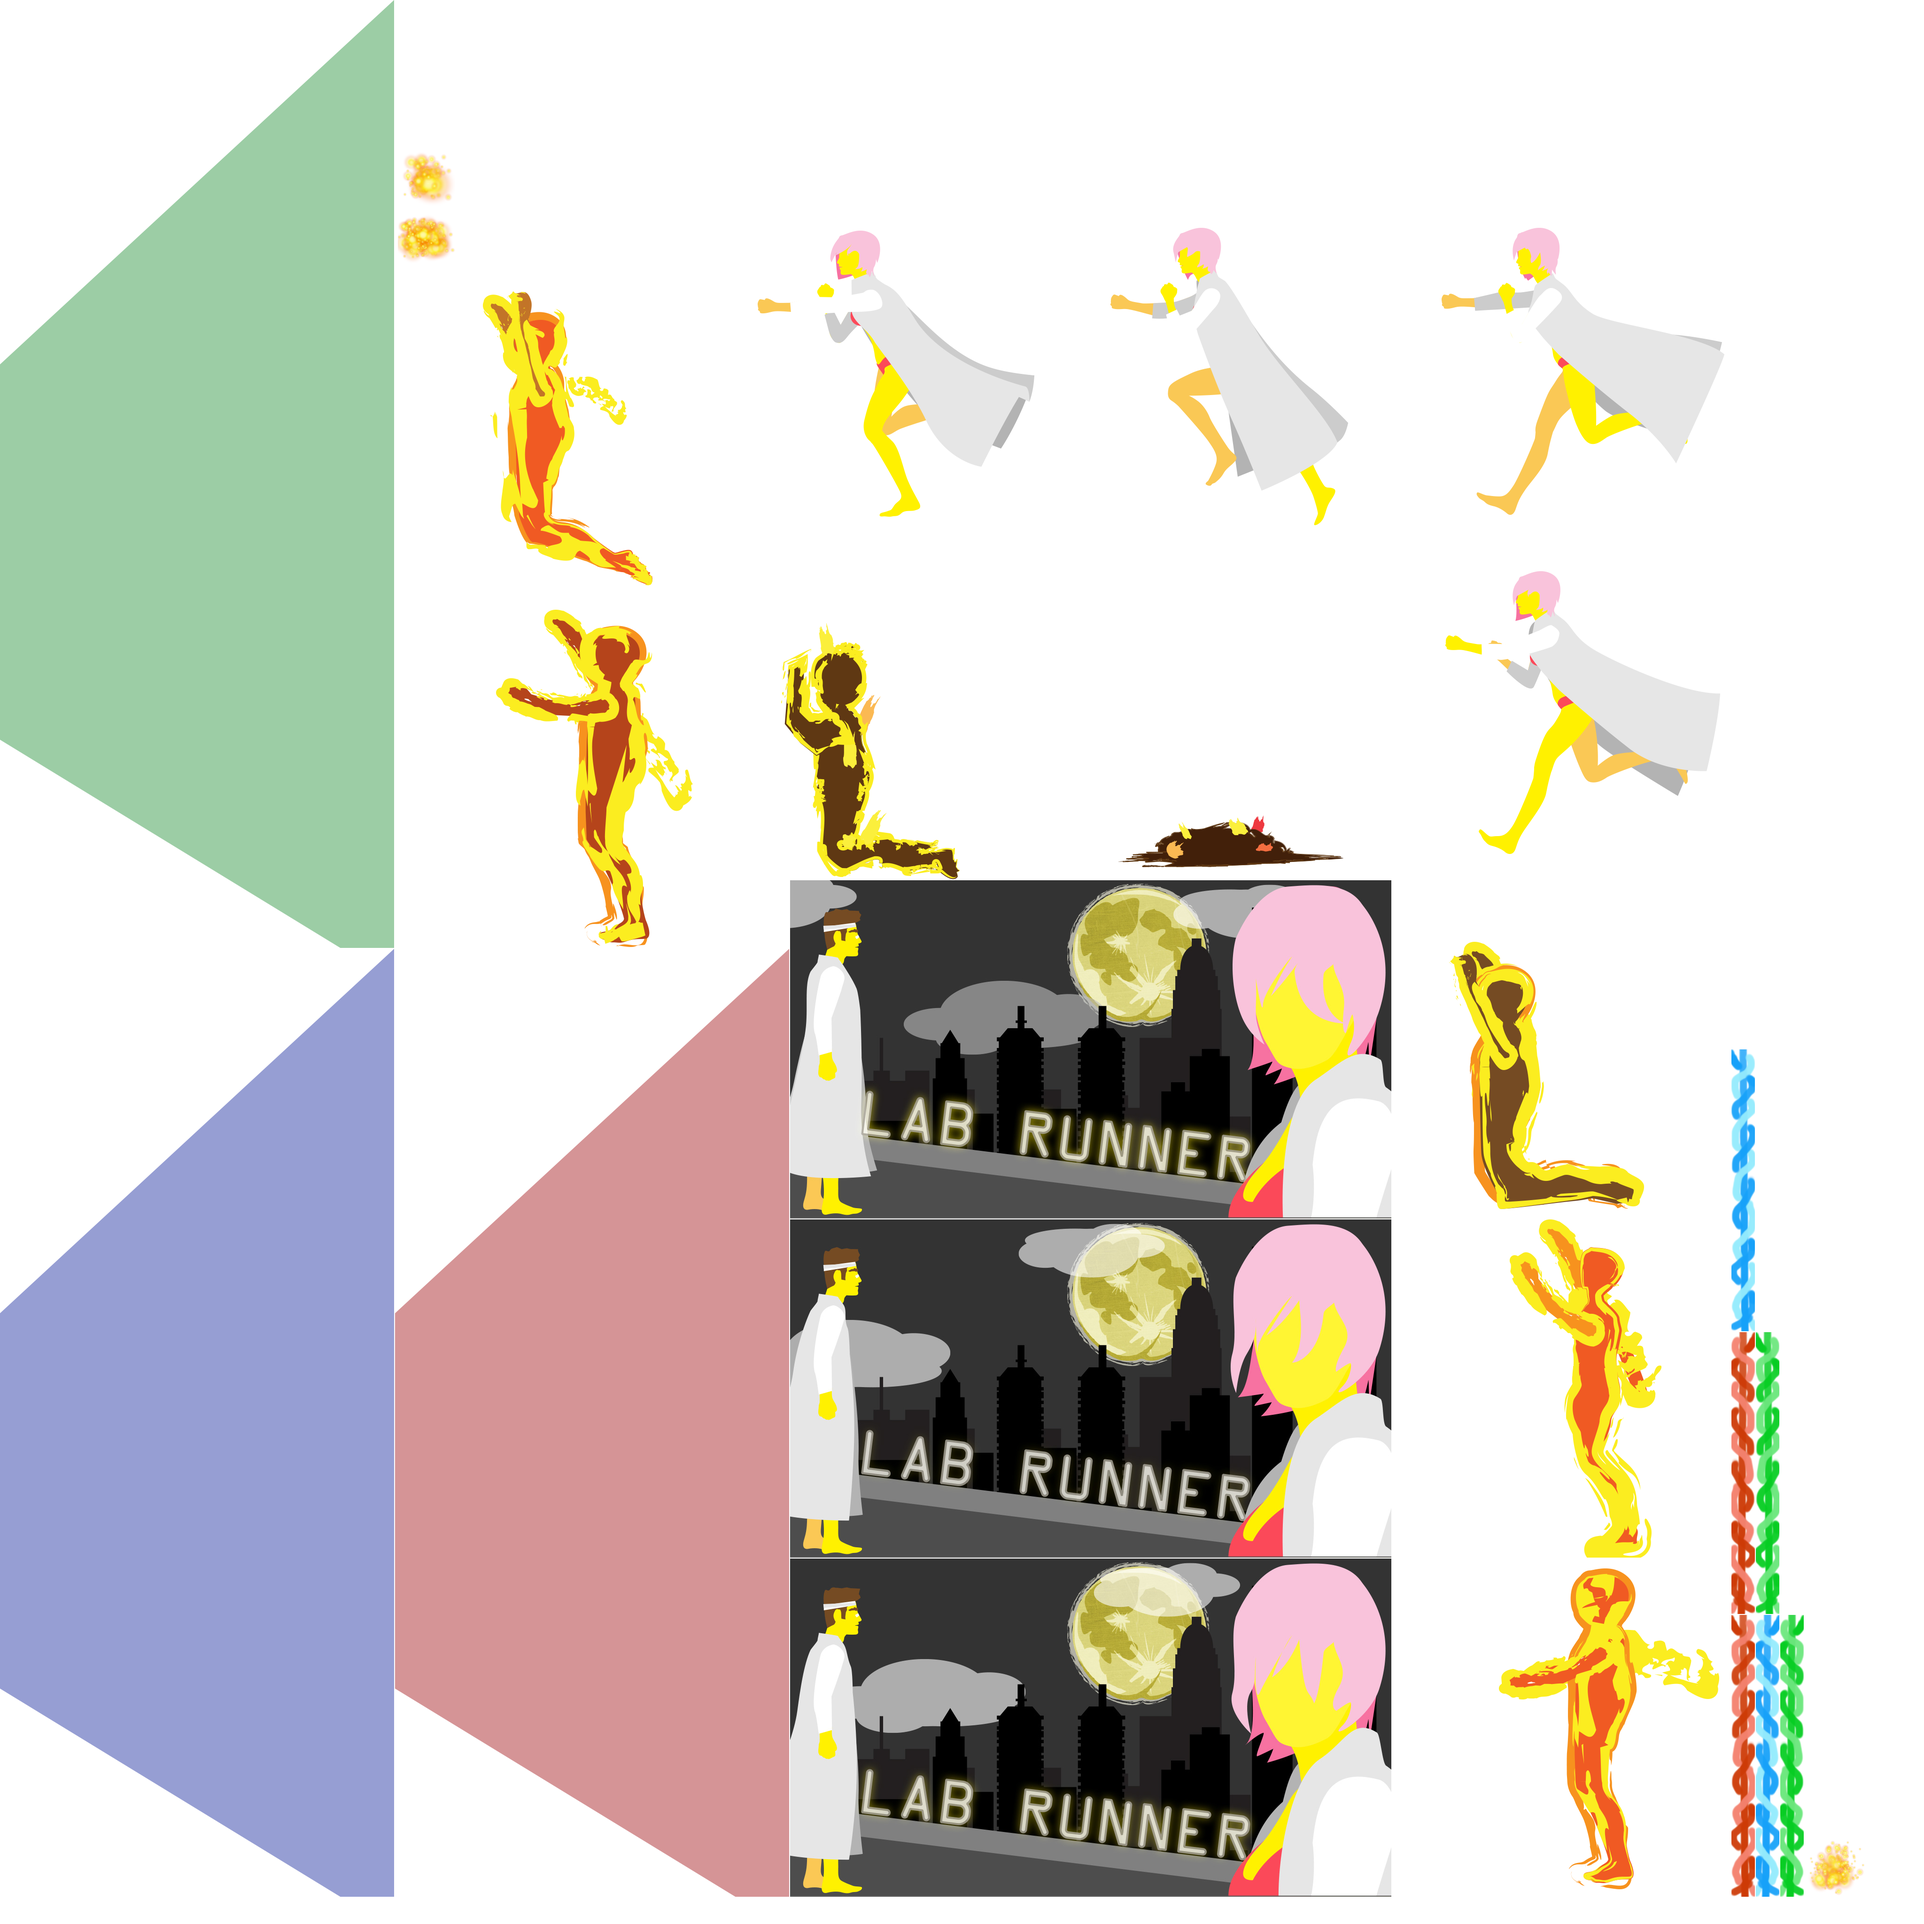
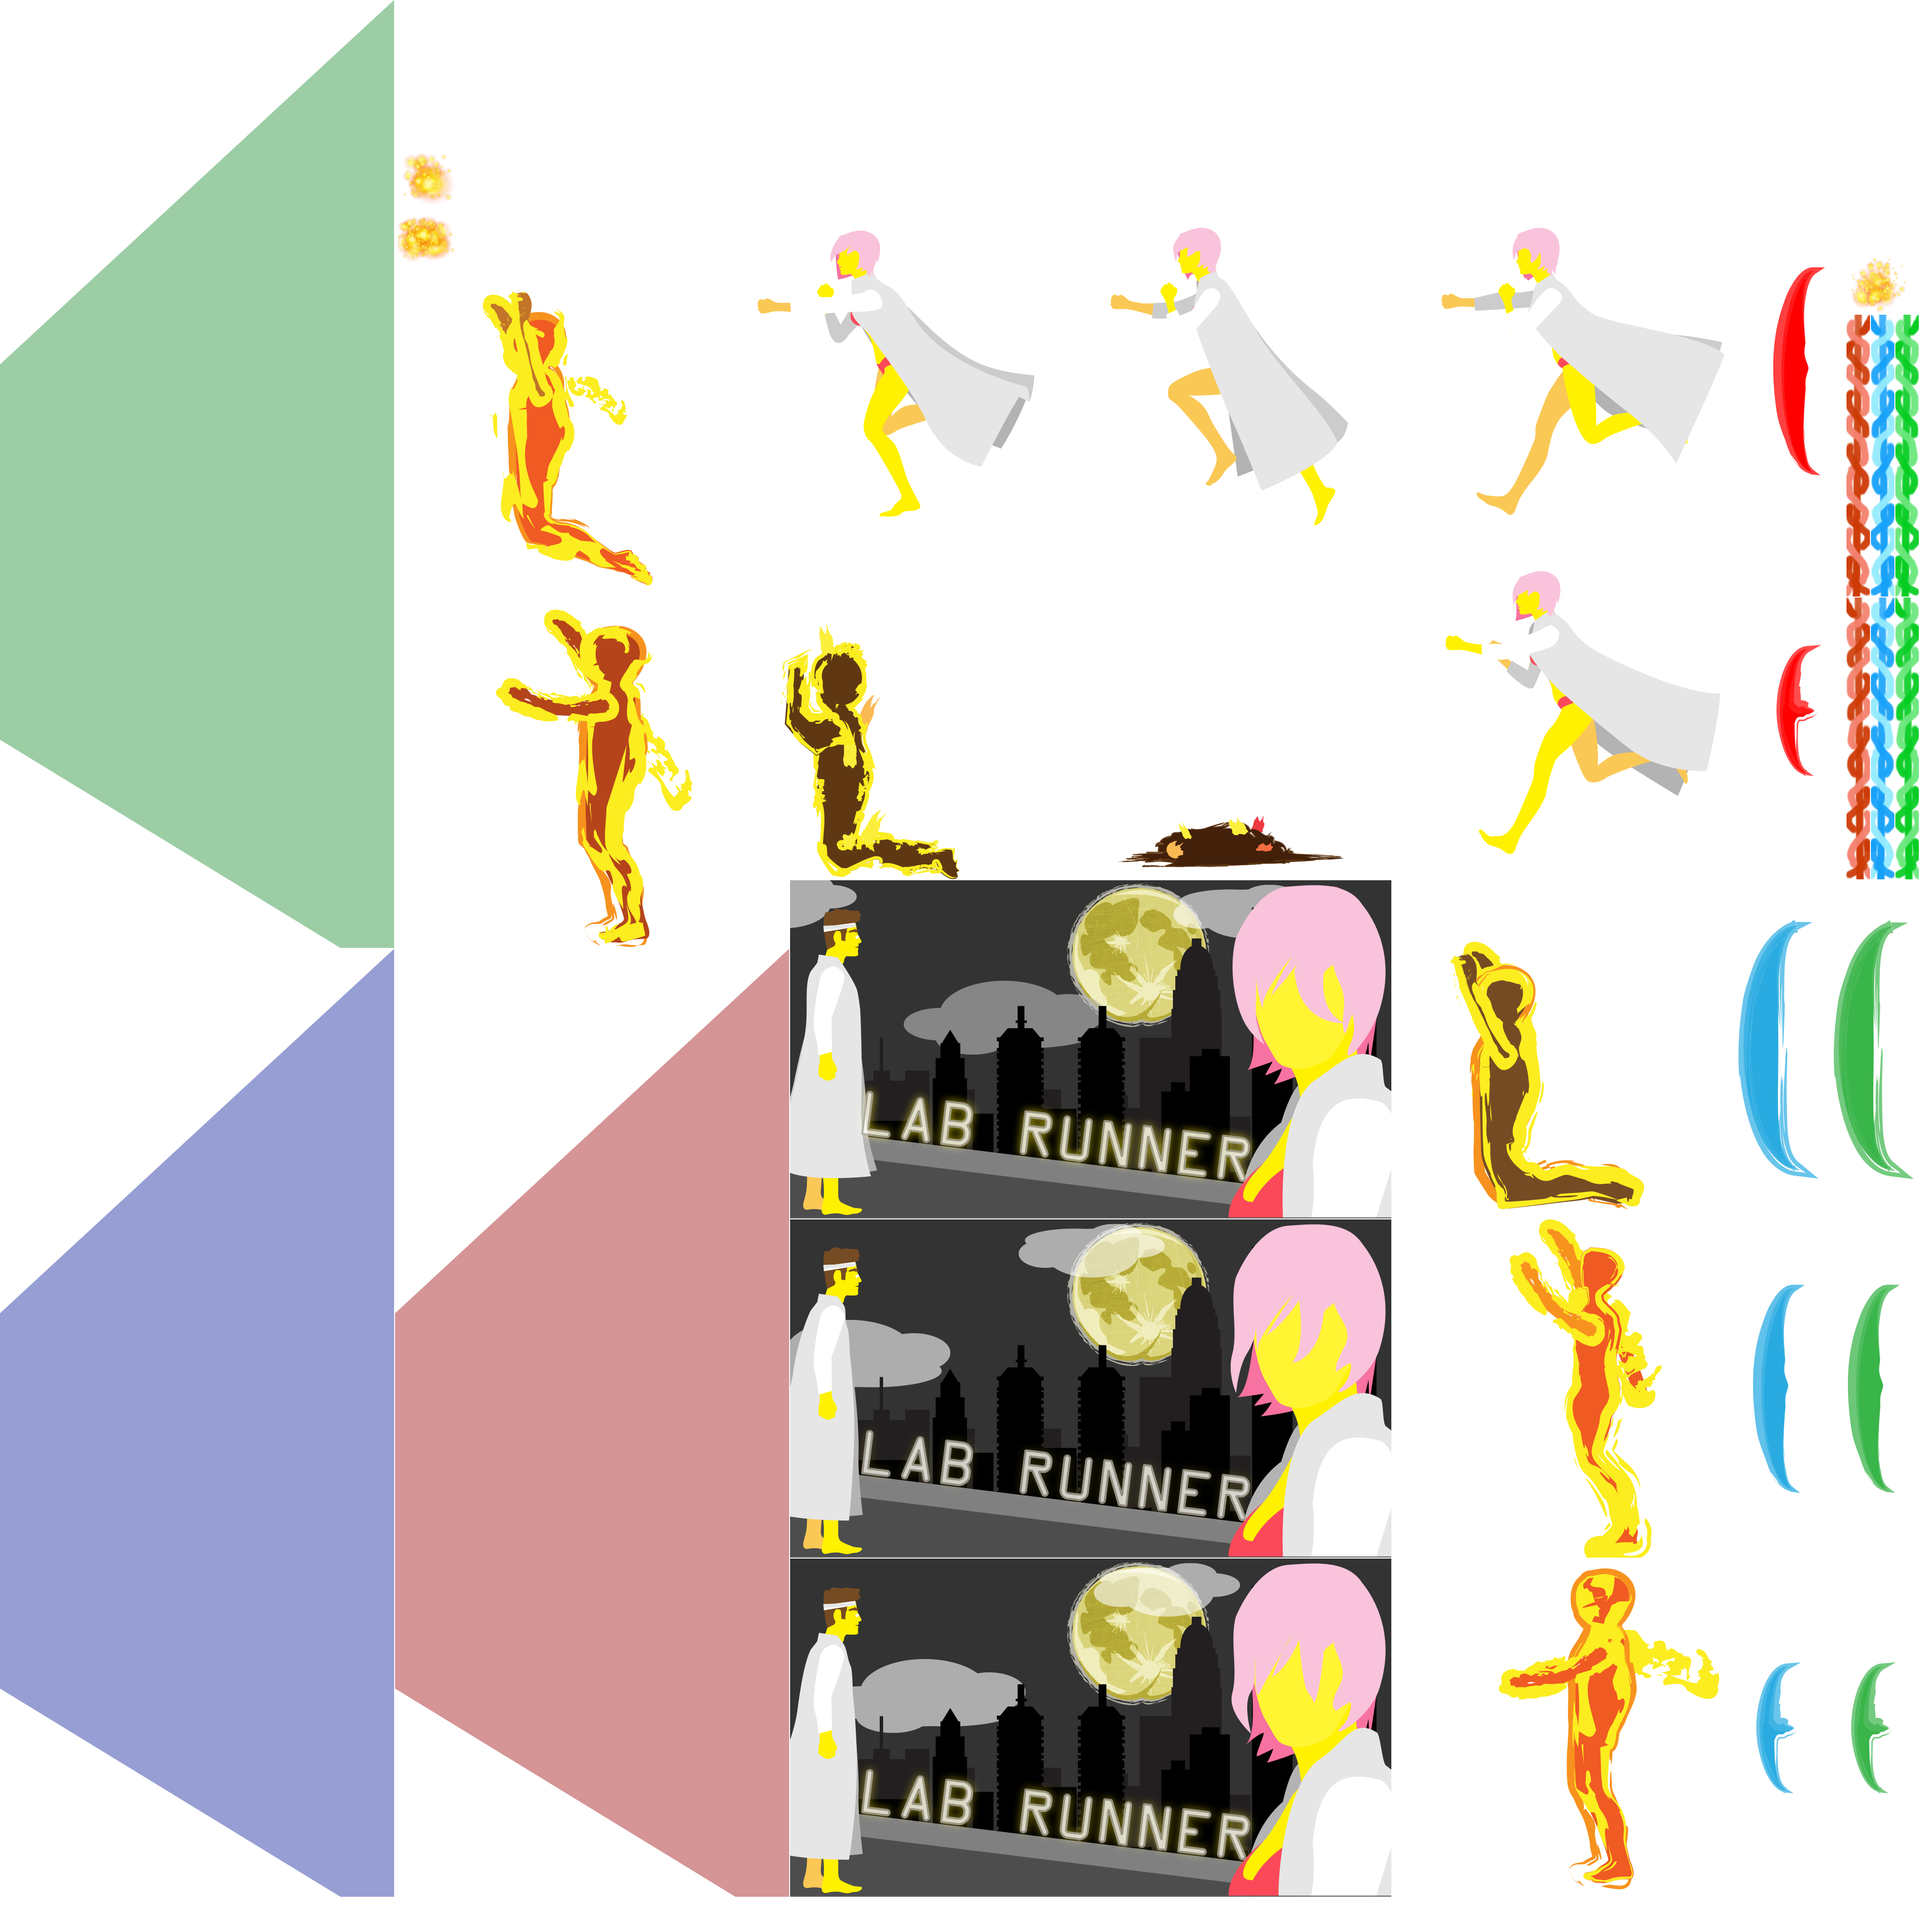
Adding shield animations
Added shield animations and flat movement to shields group.

Changed region(s): [[0.875, 0.125, 1.0, 1.0]]

diff --git a/core/src/com/kasetagen/game/bubblerunner/scene2d/actor/ShieldGroup.java b/core/src/com/kasetagen/game/bubblerunner/scene2d/actor/ShieldGroup.java
@@ -1,7 +1,9 @@
 package com.kasetagen.game.bubblerunner.scene2d.actor;
 
 import com.badlogic.gdx.graphics.Color;
+import com.badlogic.gdx.graphics.g2d.Animation;
 import com.badlogic.gdx.utils.Array;
+import com.badlogic.gdx.utils.ObjectMap;
 import com.kasetagen.engine.gdx.scenes.scene2d.actors.GenericGroup;
 
 /**
@@ -13,15 +15,25 @@ import com.kasetagen.engine.gdx.scenes.scene2d.actors.GenericGroup;
  */
 public class ShieldGroup extends GenericGroup {
 
-    private static final float FIELD_ADJUST = 20f;
+    private static final float SHIELD_WIDTH = 100f;
+    private static final float SHIELD_HEIGHT = 360f;
+
+    private static final float FIELD_ADJUST_X = SHIELD_WIDTH;
+    private static final float FIELD_ADJUST_Y = 75f;
 
     private Array<ForceField> fields;
     public int maxFields = 1;
     public int resourceUsage = 1;
+    private ObjectMap<ForceFieldType, Animation> shieldAnimations;
 
     public ShieldGroup(float x, float y, float width, float height) {
-        super(x, y, width, height, null, Color.YELLOW);
+        super(x, y, width, height, null, Color.BLACK);
         fields = new Array<ForceField>();
+        shieldAnimations = new ObjectMap<ForceFieldType, Animation>();
+    }
+
+    public void setShieldAnimation(ForceFieldType fft, Animation ani){
+        shieldAnimations.put(fft, ani);
     }
 
     public void addField(ForceFieldType ff){
@@ -34,27 +46,19 @@ public class ShieldGroup extends GenericGroup {
         }
 
         float radius = getWidth();
-        float x = getX()-getWidth()/2;
-        float y = getY();
-        ForceField field = new ForceField(x, y, radius, ff);
+        float x = getWidth() - (SHIELD_WIDTH/4);
+        float y = FIELD_ADJUST_Y;
+        ForceField field = new ForceField(x, y, SHIELD_WIDTH, SHIELD_HEIGHT, shieldAnimations.get(ff), ff);
 
-        for(int i=fields.size-1;i>=0;i--){
-            fields.get(i).targetRadius = fields.get(i).targetRadius + (FIELD_ADJUST);
+        for(int i=0;i<fields.size;i++){
+            fields.get(i).targetX += FIELD_ADJUST_X;
         }
+//        for(int i=fields.size-1;i>=0;i--){
+//            fields.get(i).targetX = fields.get(i).targetX + (FIELD_ADJUST_X);
+//        }
 
         this.addActor(field);
         fields.add(field);
-    }
-
-    public void addField(ForceFieldType ff, int index){
-
-        float adjust = fields.size > 0 ? FIELD_ADJUST *fields.size - 1 : 0;
-        float radius = getWidth() + adjust;
-        float x = getX() - (getWidth()/2) - adjust;
-        float y = getY() - adjust;
-        ForceField field = new ForceField(x, y, radius, ff);
-        this.addActor(field);
-        fields.insert(index, field);
     }
 
     public void removeField(ForceField ff){
@@ -62,7 +66,7 @@ public class ShieldGroup extends GenericGroup {
         fields.removeValue(ff, true);
 
         for(int i=0;i<fields.size;i++){
-            fields.get(i).targetRadius = getWidth() + (FIELD_ADJUST * (fields.size-i-1));
+            fields.get(i).targetX -= FIELD_ADJUST_X*(fields.size-i-1);//= getWidth()-(SHIELD_WIDTH/4) + (FIELD_ADJUST_X * (fields.size-i-1));
         }
     }
 
@@ -84,7 +88,7 @@ public class ShieldGroup extends GenericGroup {
         //When we remove a forcefield, we need to readjust all of the remaining
         //  fields into the proper positions.
         for(int i=0;i<fields.size;i++){
-            fields.get(i).targetRadius = getWidth() + (FIELD_ADJUST * (fields.size-i-1));
+            fields.get(i).targetX = getWidth() + (FIELD_ADJUST_X * (fields.size-i-1));
         }
     }
 
@@ -103,5 +107,4 @@ public class ShieldGroup extends GenericGroup {
         }
         return ff;
     }
-
 }

diff --git a/core/src/com/kasetagen/game/bubblerunner/scene2d/actor/ForceField.java b/core/src/com/kasetagen/game/bubblerunner/scene2d/actor/ForceField.java
@@ -1,9 +1,10 @@
 package com.kasetagen.game.bubblerunner.scene2d.actor;
 
 import com.badlogic.gdx.Gdx;
+import com.badlogic.gdx.graphics.g2d.Animation;
 import com.badlogic.gdx.graphics.g2d.Batch;
-import com.badlogic.gdx.graphics.glutils.ShapeRenderer;
-import com.kasetagen.game.bubblerunner.util.ForceFieldColorUtil;
+import com.badlogic.gdx.math.Vector2;
+import com.kasetagen.engine.gdx.scenes.scene2d.actors.AnimatedActor;
 
 /**
  * Created with IntelliJ IDEA.
@@ -12,18 +13,19 @@ import com.kasetagen.game.bubblerunner.util.ForceFieldColorUtil;
  * Time: 7:34 PM
  * To change this template use File | Settings | File Templates.
  */
-public class ForceField extends com.kasetagen.engine.gdx.scenes.scene2d.actors.GenericActor {
+public class ForceField extends AnimatedActor {
 
     public ForceFieldType forceFieldType;
-    public float targetRadius;
-    public float radius;
+    public float targetX;
+    //public float radius;
 
-    public ForceField(float x, float y, float radius, ForceFieldType ff){
-        super(x, y, radius*2, radius*2, null, ForceFieldColorUtil.getColor(ff));
+    public ForceField(float x, float y, float width, float height, Animation ani, ForceFieldType ff){
+        super(x, y, width, height, ani, 0f);
 
         forceFieldType = ff;
-        targetRadius = radius;
-        this.radius = radius;
+        targetX = x;
+        this.isLooping = false;
+        //this.radius = radius;
     }
 
     @Override
@@ -31,33 +33,37 @@ public class ForceField extends com.kasetagen.engine.gdx.scenes.scene2d.actors.G
         super.act(delta);
 
         //Manually "Tween" our position
-        if(targetRadius > radius){
-            radius++;
-            setX(getX() - 1);
-            setY(getY() -1);
-            setWidth(radius*2);
-            setHeight(radius*2);
-        }else if(targetRadius < radius){
-            radius--;
-            setX(getX() + 1);
-            setY(getY() + 1);
-            setWidth(radius*2);
-            setHeight(radius*2);
+        if(targetX > getX()){
+            setX(getX() + 2f);//radius++;
+//            setX(getX() - 1);
+//            setY(getY() -1);
+//            setWidth(radius*2);
+//            setHeight(radius*2);
+        }else if(targetX < getX()){
+            setX(getX() - 2f);
+//            setX(getX() + 1);
+//            setY(getY() + 1);
+//            setWidth(radius*2);
+//            setHeight(radius*2);
+        }
+
+        if(textureRegion != null && !textureRegion.isFlipX()){
+            textureRegion.flip(true, false);
         }
     }
 
     @Override
     public void drawFull(Batch batch, float parentAlpha) {
-
-        batch.end();
-        batch.begin();
-        Gdx.gl20.glLineWidth(5f);
-        debugRenderer.setProjectionMatrix(getStage().getCamera().combined);
-        debugRenderer.begin(ShapeRenderer.ShapeType.Line);
-        debugRenderer.setColor(getColor());
-        debugRenderer.circle(getOriginX(), getOriginY(), radius);
-        debugRenderer.end();
-        batch.end();
-        batch.begin();
+        super.drawFull(batch, parentAlpha);
+//        batch.end();
+//        batch.begin();
+//        Gdx.gl20.glLineWidth(5f);
+//        debugRenderer.setProjectionMatrix(getStage().getCamera().combined);
+//        debugRenderer.begin(ShapeRenderer.ShapeType.Line);
+//        debugRenderer.setColor(getColor());
+//        debugRenderer.circle(getOriginX(), getOriginY(), radius);
+//        debugRenderer.end();
+//        batch.end();
+//        batch.begin();
     }
 }

diff --git a/core/src/com/kasetagen/game/bubblerunner/scene2d/BubbleRunnerStage.java b/core/src/com/kasetagen/game/bubblerunner/scene2d/BubbleRunnerStage.java
@@ -850,6 +850,12 @@ public class BubbleRunnerStage extends BaseStage {
                                   playerDimensions[1],
                                   playerDimensions[2],
                                   playerDimensions[3]);
+        Animation redShield = new Animation(AnimationUtil.SHIELD_CYCLE_RATE, atlas.findRegions("Shields/Red"));
+        Animation greenShield = new Animation(AnimationUtil.SHIELD_CYCLE_RATE, atlas.findRegions("Shields/Green"));
+        Animation blueShield = new Animation(AnimationUtil.SHIELD_CYCLE_RATE, atlas.findRegions("Shields/Blue"));
+        shields.setShieldAnimation(ForceFieldType.LASER, redShield);
+        shields.setShieldAnimation(ForceFieldType.PLASMA, greenShield);
+        shields.setShieldAnimation(ForceFieldType.LIGHTNING, blueShield);
         shields.maxFields = maxFields;
         addActor(shields);
 
@@ -874,11 +880,11 @@ public class BubbleRunnerStage extends BaseStage {
     }
 
     private void initializeEnvironmentGroups(){
-    	addActor(EnvironmentManager.getEnvironmentGroup(EnvironmentType.WALL.toString()));
-    	addActor(EnvironmentManager.getEnvironmentGroup(EnvironmentType.BACKFLOOR.toString()));
-    	addActor(EnvironmentManager.getEnvironmentGroup(EnvironmentType.FLOOR.toString()));
-    	addActor(EnvironmentManager.getEnvironmentGroup(EnvironmentType.PILLAR.toString()));
-    	addActor(EnvironmentManager.getEnvironmentGroup(EnvironmentType.OBSTACLES.toString()));
+//    	addActor(EnvironmentManager.getEnvironmentGroup(EnvironmentType.WALL.toString()));
+//    	addActor(EnvironmentManager.getEnvironmentGroup(EnvironmentType.BACKFLOOR.toString()));
+//    	addActor(EnvironmentManager.getEnvironmentGroup(EnvironmentType.FLOOR.toString()));
+//    	addActor(EnvironmentManager.getEnvironmentGroup(EnvironmentType.PILLAR.toString()));
+//    	addActor(EnvironmentManager.getEnvironmentGroup(EnvironmentType.OBSTACLES.toString()));
     }
     
     private void initializeStartingScene(){

diff --git a/core/src/com/kasetagen/game/bubblerunner/util/AnimationUtil.java b/core/src/com/kasetagen/game/bubblerunner/util/AnimationUtil.java
@@ -15,4 +15,6 @@ public class AnimationUtil {
     public static final float RUNNER_WALL_CYCLE_RATE = 1f/8f;
 
     public static final float TITLE_CYCLE_RATE = 1f/3f;
+
+    public static final float SHIELD_CYCLE_RATE = 1f/10f;
 }
